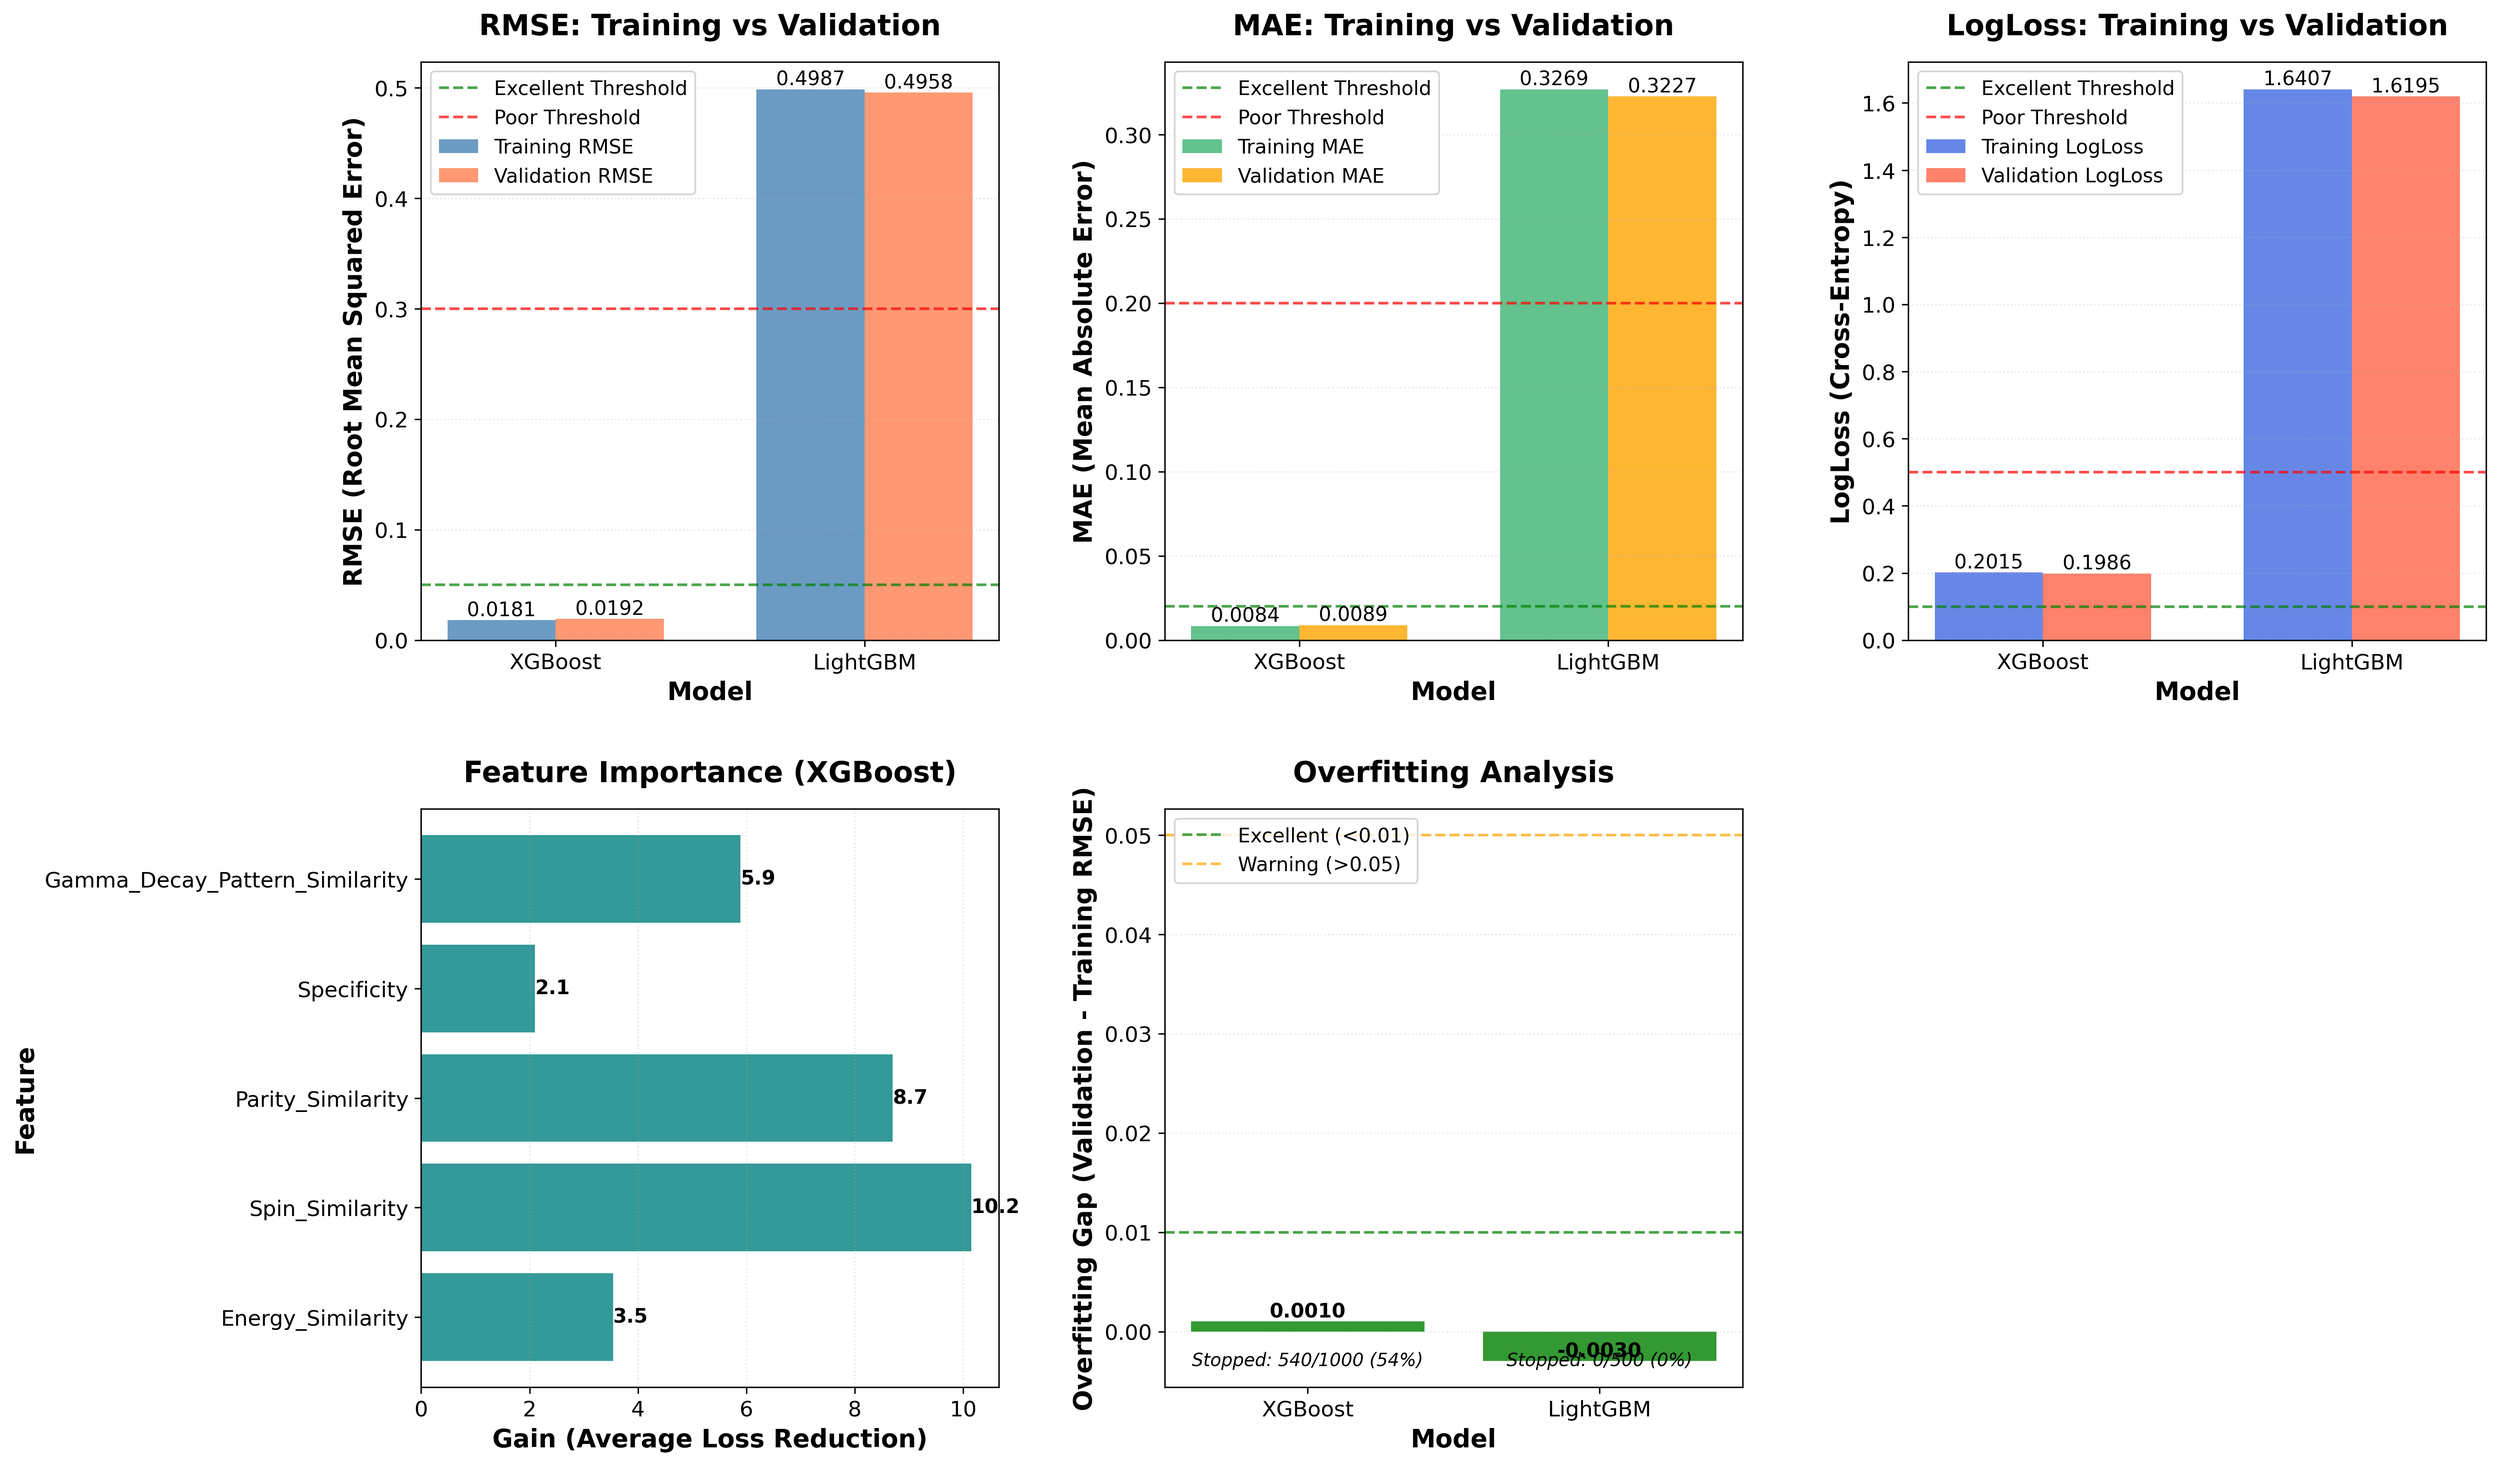
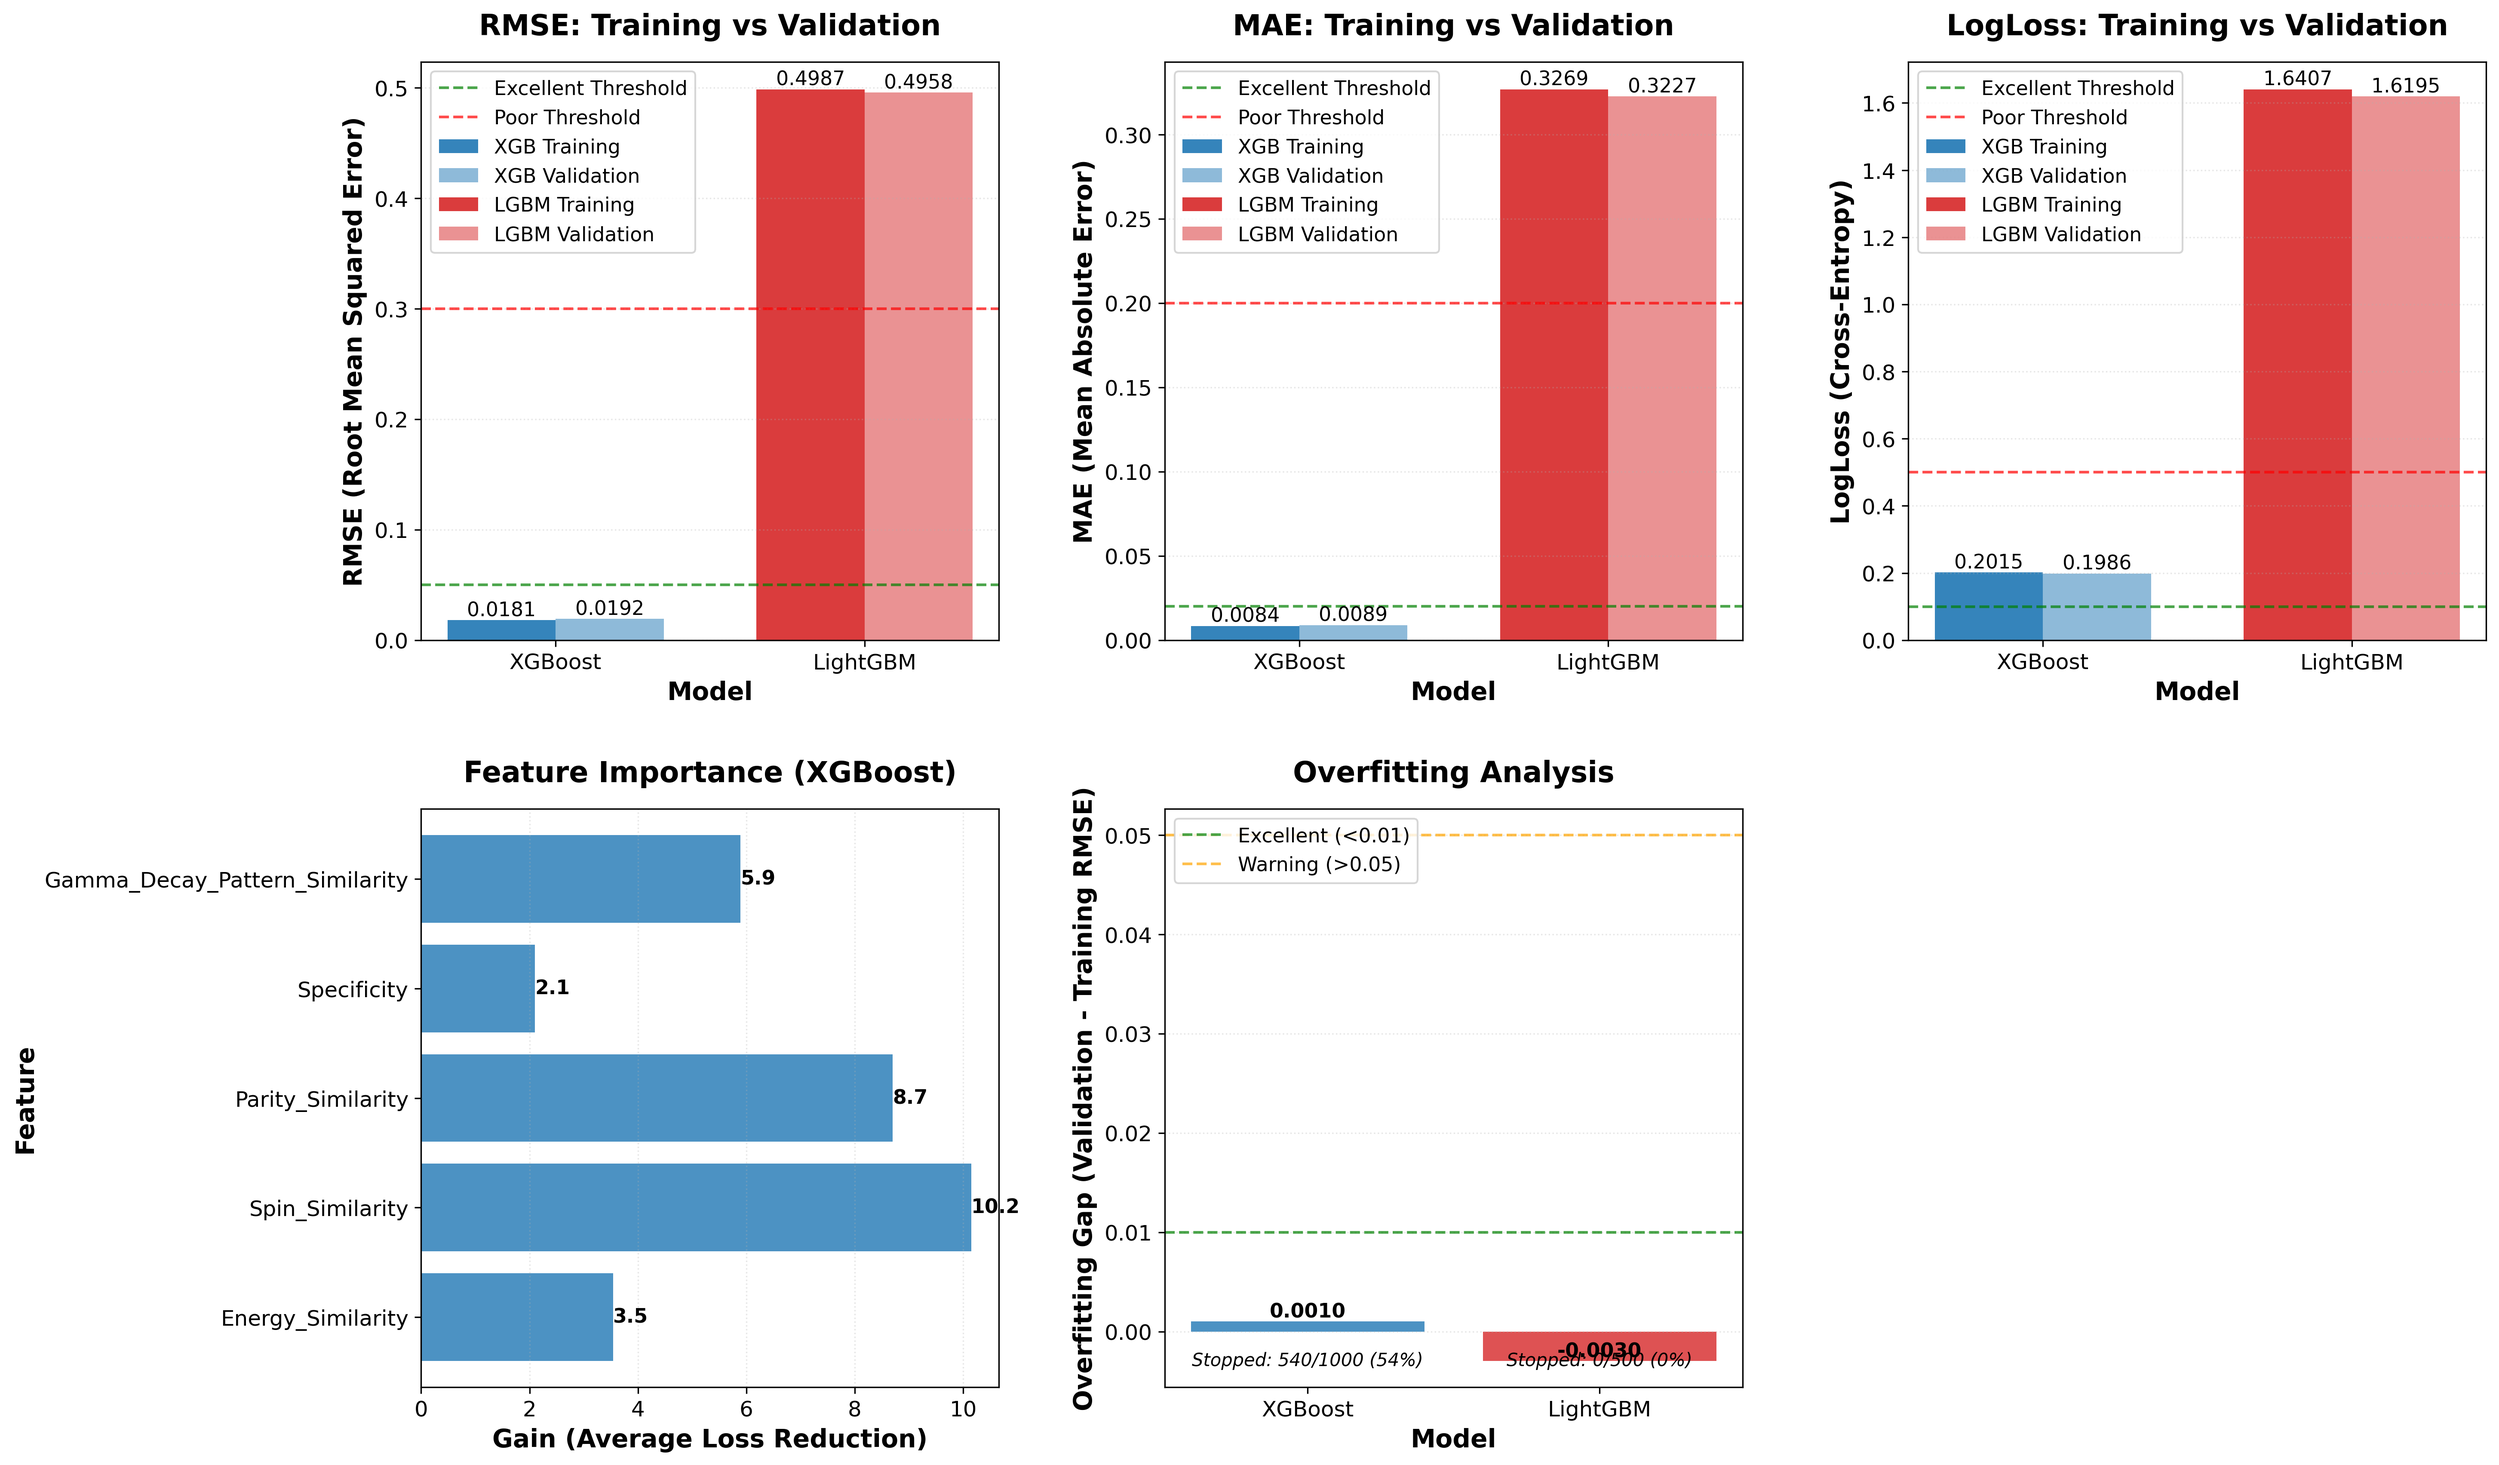
Standardize color palette in training metrics visualizer
Replaced ad-hoc color choices with a consistent hex color palette for XGBoost (#1f77b4) and LightGBM (#d62728) across all panels. Updated bar and annotation logic for clarity and cross-model comparison. Updated diagnostic figure to reflect these changes.

diff --git a/Training_Metrics_Visualizer.py b/Training_Metrics_Visualizer.py
@@ -33,12 +33,13 @@ Numbered Technical Steps:
 4. **Panel 2 - MAE Comparison**: Bar chart showing training vs validation MAE for XGBoost and LightGBM.
 5. **Panel 3 - LogLoss Comparison**: Binary classification calibration metric (primary metric for probability predictions).
 6. **Panel 4 - Feature Importance**: Horizontal bar chart showing Gain (average loss reduction) for each feature.
-7. **Panel 5 - Overfitting Analysis**: Calculates and visualizes train/validation gap (overfitting indicator).
-8. **Quality Assurance**: Adds reference lines, annotations, and color coding for instant interpretation.
+7. **Panel 5 - Overfitting Analysis**: Calculates and visualizes train/validation gap (overfitting indicator). Sets model-specific colors (XGBoost: Bluish, LightGBM: Redish).
+8. **Quality Assurance**: Adds reference lines, annotations, and standardized color coding for instant cross-model comparison.
 
 Architecture:
 - Single function `visualize_training_metrics()` for simplicity
 - Uses matplotlib subplots for multi-panel layout
+- Standardized Hex Color Palette: XGBoost (`#1f77b4`), LightGBM (`#d62728`)
 - Automatic scaling and formatting for publication-quality output
 
 Purpose:
@@ -77,6 +78,12 @@ def visualize_training_metrics(xgboost_metrics, lightgbm_metrics, output_path='o
     feature_names = ['Energy_Similarity', 'Spin_Similarity', 'Parity_Similarity', 
                      'Specificity', 'Gamma_Decay_Pattern_Similarity']
     
+    # Model Color Palette (Standardized)
+    color_xgboost = '#1f77b4'  # Professional Bluish
+    color_lightgbm = '#d62728' # Professional Redish
+    alpha_train = 0.9
+    alpha_val = 0.5
+    
     # ==========================================
     # Panel 1: RMSE Comparison
     # ==========================================
@@ -89,24 +96,26 @@ def visualize_training_metrics(xgboost_metrics, lightgbm_metrics, output_path='o
     x_positions = np.arange(len(model_labels))
     bar_width = 0.35
     
-    bars_train = axis_rmse.bar(x_positions - bar_width/2, training_rmse_values, bar_width, 
-                                label='Training RMSE', color='steelblue', alpha=0.8)
-    bars_validation = axis_rmse.bar(x_positions + bar_width/2, validation_rmse_values, bar_width,
-                                     label='Validation RMSE', color='coral', alpha=0.8)
+    # XGBoost bars
+    axis_rmse.bar(x_positions[0] - bar_width/2, training_rmse_values[0], bar_width, 
+                 label='XGB Training', color=color_xgboost, alpha=alpha_train)
+    axis_rmse.bar(x_positions[0] + bar_width/2, validation_rmse_values[0], bar_width,
+                 label='XGB Validation', color=color_xgboost, alpha=alpha_val)
+    
+    # LightGBM bars
+    axis_rmse.bar(x_positions[1] - bar_width/2, training_rmse_values[1], bar_width, 
+                 label='LGBM Training', color=color_lightgbm, alpha=alpha_train)
+    axis_rmse.bar(x_positions[1] + bar_width/2, validation_rmse_values[1], bar_width,
+                 label='LGBM Validation', color=color_lightgbm, alpha=alpha_val)
     
     # Add reference line for excellent performance threshold (RMSE < 0.05)
     axis_rmse.axhline(y=0.05, color='green', linestyle='--', linewidth=1.5, alpha=0.7, label='Excellent Threshold')
     axis_rmse.axhline(y=0.3, color='red', linestyle='--', linewidth=1.5, alpha=0.7, label='Poor Threshold')
     
-    # Add value labels on bars
-    for bar in bars_train:
-        height = bar.get_height()
-        axis_rmse.text(bar.get_x() + bar.get_width()/2., height,
-                      f'{height:.4f}', ha='center', va='bottom', fontsize=annotation_fontsize)
-    for bar in bars_validation:
-        height = bar.get_height()
-        axis_rmse.text(bar.get_x() + bar.get_width()/2., height,
-                      f'{height:.4f}', ha='center', va='bottom', fontsize=annotation_fontsize)
+    # Add value labels
+    for i, (t, v) in enumerate(zip(training_rmse_values, validation_rmse_values)):
+        axis_rmse.text(x_positions[i] - bar_width/2, t, f'{t:.4f}', ha='center', va='bottom', fontsize=annotation_fontsize)
+        axis_rmse.text(x_positions[i] + bar_width/2, v, f'{v:.4f}', ha='center', va='bottom', fontsize=annotation_fontsize)
     
     axis_rmse.set_xlabel('Model', fontsize=label_fontsize, fontweight='bold')
     axis_rmse.set_ylabel('RMSE (Root Mean Squared Error)', fontsize=label_fontsize, fontweight='bold')
@@ -125,24 +134,26 @@ def visualize_training_metrics(xgboost_metrics, lightgbm_metrics, output_path='o
     training_mae_values = [xgboost_metrics['train_mae'], lightgbm_metrics['train_mae']]
     validation_mae_values = [xgboost_metrics['validation_mae'], lightgbm_metrics['validation_mae']]
     
-    bars_train_mae = axis_mae.bar(x_positions - bar_width/2, training_mae_values, bar_width,
-                                    label='Training MAE', color='mediumseagreen', alpha=0.8)
-    bars_validation_mae = axis_mae.bar(x_positions + bar_width/2, validation_mae_values, bar_width,
-                                        label='Validation MAE', color='orange', alpha=0.8)
+    # XGBoost bars
+    axis_mae.bar(x_positions[0] - bar_width/2, training_mae_values[0], bar_width,
+                label='XGB Training', color=color_xgboost, alpha=alpha_train)
+    axis_mae.bar(x_positions[0] + bar_width/2, validation_mae_values[0], bar_width,
+                label='XGB Validation', color=color_xgboost, alpha=alpha_val)
+    
+    # LightGBM bars
+    axis_mae.bar(x_positions[1] - bar_width/2, training_mae_values[1], bar_width,
+                label='LGBM Training', color=color_lightgbm, alpha=alpha_train)
+    axis_mae.bar(x_positions[1] + bar_width/2, validation_mae_values[1], bar_width,
+                label='LGBM Validation', color=color_lightgbm, alpha=alpha_val)
     
     # Add reference line for excellent performance threshold (MAE < 0.02)
     axis_mae.axhline(y=0.02, color='green', linestyle='--', linewidth=1.5, alpha=0.7, label='Excellent Threshold')
     axis_mae.axhline(y=0.2, color='red', linestyle='--', linewidth=1.5, alpha=0.7, label='Poor Threshold')
     
-    # Add value labels on bars
-    for bar in bars_train_mae:
-        height = bar.get_height()
-        axis_mae.text(bar.get_x() + bar.get_width()/2., height,
-                     f'{height:.4f}', ha='center', va='bottom', fontsize=annotation_fontsize)
-    for bar in bars_validation_mae:
-        height = bar.get_height()
-        axis_mae.text(bar.get_x() + bar.get_width()/2., height,
-                     f'{height:.4f}', ha='center', va='bottom', fontsize=annotation_fontsize)
+    # Add value labels
+    for i, (t, v) in enumerate(zip(training_mae_values, validation_mae_values)):
+        axis_mae.text(x_positions[i] - bar_width/2, t, f'{t:.4f}', ha='center', va='bottom', fontsize=annotation_fontsize)
+        axis_mae.text(x_positions[i] + bar_width/2, v, f'{v:.4f}', ha='center', va='bottom', fontsize=annotation_fontsize)
     
     axis_mae.set_xlabel('Model', fontsize=label_fontsize, fontweight='bold')
     axis_mae.set_ylabel('MAE (Mean Absolute Error)', fontsize=label_fontsize, fontweight='bold')
@@ -161,24 +172,26 @@ def visualize_training_metrics(xgboost_metrics, lightgbm_metrics, output_path='o
     training_logloss_values = [xgboost_metrics['train_logloss'], lightgbm_metrics['train_logloss']]
     validation_logloss_values = [xgboost_metrics['validation_logloss'], lightgbm_metrics['validation_logloss']]
     
-    bars_train_logloss = axis_logloss.bar(x_positions - bar_width/2, training_logloss_values, bar_width,
-                                           label='Training LogLoss', color='royalblue', alpha=0.8)
-    bars_validation_logloss = axis_logloss.bar(x_positions + bar_width/2, validation_logloss_values, bar_width,
-                                                label='Validation LogLoss', color='tomato', alpha=0.8)
+    # XGBoost bars
+    axis_logloss.bar(x_positions[0] - bar_width/2, training_logloss_values[0], bar_width,
+                    label='XGB Training', color=color_xgboost, alpha=alpha_train)
+    axis_logloss.bar(x_positions[0] + bar_width/2, validation_logloss_values[0], bar_width,
+                    label='XGB Validation', color=color_xgboost, alpha=alpha_val)
+    
+    # LightGBM bars
+    axis_logloss.bar(x_positions[1] - bar_width/2, training_logloss_values[1], bar_width,
+                    label='LGBM Training', color=color_lightgbm, alpha=alpha_train)
+    axis_logloss.bar(x_positions[1] + bar_width/2, validation_logloss_values[1], bar_width,
+                    label='LGBM Validation', color=color_lightgbm, alpha=alpha_val)
     
     # Add reference line for excellent performance threshold (LogLoss < 0.1)
     axis_logloss.axhline(y=0.1, color='green', linestyle='--', linewidth=1.5, alpha=0.7, label='Excellent Threshold')
     axis_logloss.axhline(y=0.5, color='red', linestyle='--', linewidth=1.5, alpha=0.7, label='Poor Threshold')
     
-    # Add value labels on bars
-    for bar in bars_train_logloss:
-        height = bar.get_height()
-        axis_logloss.text(bar.get_x() + bar.get_width()/2., height,
-                         f'{height:.4f}', ha='center', va='bottom', fontsize=annotation_fontsize)
-    for bar in bars_validation_logloss:
-        height = bar.get_height()
-        axis_logloss.text(bar.get_x() + bar.get_width()/2., height,
-                         f'{height:.4f}', ha='center', va='bottom', fontsize=annotation_fontsize)
+    # Add value labels
+    for i, (t, v) in enumerate(zip(training_logloss_values, validation_logloss_values)):
+        axis_logloss.text(x_positions[i] - bar_width/2, t, f'{t:.4f}', ha='center', va='bottom', fontsize=annotation_fontsize)
+        axis_logloss.text(x_positions[i] + bar_width/2, v, f'{v:.4f}', ha='center', va='bottom', fontsize=annotation_fontsize)
     
     axis_logloss.set_xlabel('Model', fontsize=label_fontsize, fontweight='bold')
     axis_logloss.set_ylabel('LogLoss (Cross-Entropy)', fontsize=label_fontsize, fontweight='bold')
@@ -215,10 +228,9 @@ def visualize_training_metrics(xgboost_metrics, lightgbm_metrics, output_path='o
     
     # Horizontal bar chart for better label readability
     y_positions_importance = np.arange(len(feature_names))
-    # Sort for visual hierarchy (optional but good practice) - keep as fixed order for comparing runs? 
-    # Let's keep fixed order to match X-axis consistency
+    # Sort for visual hierarchy
     
-    bars_importance = axis_importance.barh(y_positions_importance, importance_values, color='teal', alpha=0.8)
+    bars_importance = axis_importance.barh(y_positions_importance, importance_values, color=color_xgboost, alpha=0.8)
     
     # Add value labels
     for index, bar in enumerate(bars_importance):
@@ -244,10 +256,8 @@ def visualize_training_metrics(xgboost_metrics, lightgbm_metrics, output_path='o
     lightgbm_gap = lightgbm_metrics['validation_rmse'] - lightgbm_metrics['train_rmse']
     gap_values = [xgboost_gap, lightgbm_gap]
     
-    # Color code: green if gap < 0.01 (good), yellow if < 0.05 (acceptable), red if >= 0.05 (overfitting)
-    bar_colors = ['green' if gap < 0.01 else 'gold' if gap < 0.05 else 'crimson' for gap in gap_values]
-    
-    bars_gap = axis_gap.bar(x_positions, gap_values, color=bar_colors, alpha=0.8)
+    # Use consistent model colors
+    bars_gap = axis_gap.bar(x_positions, gap_values, color=[color_xgboost, color_lightgbm], alpha=0.8)
     
     # Add reference line for acceptable gap threshold
     axis_gap.axhline(y=0.01, color='green', linestyle='--', linewidth=1.5, alpha=0.7, label='Excellent (<0.01)')
